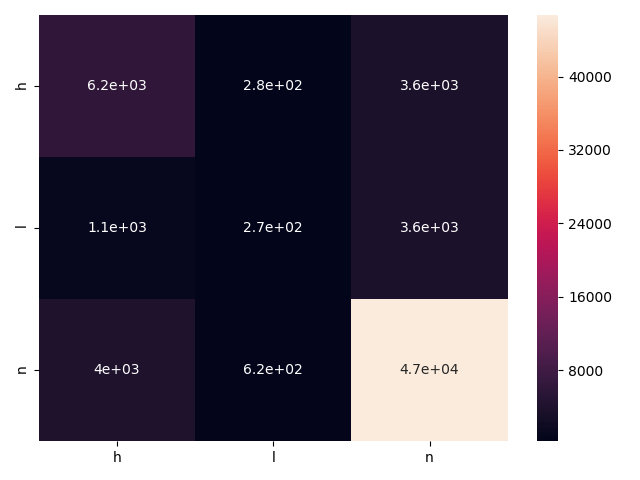
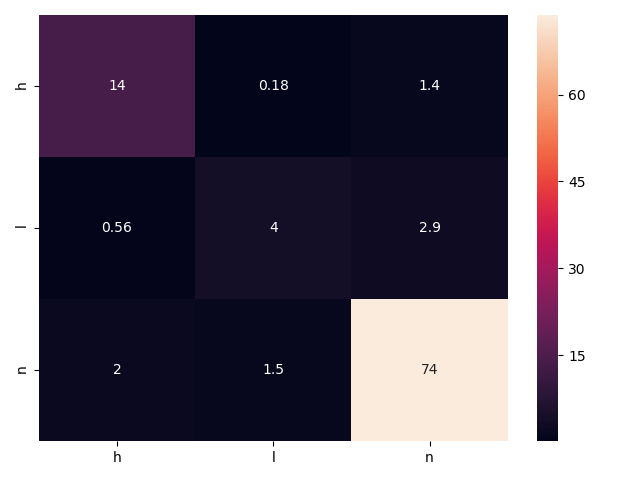
Final Commit

diff --git a/predict_nn.py b/predict_nn.py
@@ -1,0 +1,99 @@
+from sklearn.metrics import confusion_matrix
+from sklearn.model_selection import train_test_split
+from sklearn.preprocessing import LabelEncoder
+from sklearn.metrics import accuracy_score
+from sklearn.metrics import precision_score
+from sklearn.metrics import recall_score
+from sklearn.metrics import f1_score
+import keras.backend as K
+from keras.utils import get_custom_objects, to_categorical
+from keras.layers import Activation, Dense, BatchNormalization
+from keras.models import Sequential
+import joblib
+import matplotlib.pyplot as plt
+import seaborn as sns
+import pandas as pd
+import numpy as np
+
+class Swish(Activation):
+
+    def __init__(self, activation, **kwargs):
+        super(Swish, self).__init__(activation, **kwargs)
+        self.__name__ = 'swish'
+
+def swish(x):
+    return K.sigmoid(x) * x
+
+get_custom_objects().update({'swish': Swish(swish)})
+
+
+## Define the model architecture
+def build_model(input_shape):
+     model = Sequential()
+
+     model.add(Dense(32, input_shape=input_shape))
+     model.add(Activation('swish'))
+     model.add(BatchNormalization())
+
+     model.add(Dense(16))
+     model.add(Activation('swish'))
+     model.add(BatchNormalization())
+
+     model.add(Dense(8))
+     model.add(Activation('swish'))
+     model.add(BatchNormalization())
+
+     model.add(Dense(3))
+     model.add(Activation('softmax'))
+
+     return model
+le_s = LabelEncoder()
+le_i = LabelEncoder()
+le_c = LabelEncoder()
+le_acd = LabelEncoder()
+
+df = pd.read_csv('Dataset/Standard_CSV.csv')
+df['satellite'] = le_s.fit_transform(df['satellite'])
+df['instrument'] = le_i.fit_transform(df['instrument'])
+df['confidence'] = le_c.fit_transform(df['confidence'])
+df[['acq_date']] = df[['acq_date']].astype(str)
+df['acq_date'] = le_acd.fit_transform(df['acq_date'])
+df = df.iloc[:,1:]
+
+y = df.confidence.values
+x = df.drop('confidence', axis = 1).reset_index(drop = True)
+# y = to_categorical(y)
+
+x_train,x_val, y_train, y_val = train_test_split(x,y, test_size=0.3)
+y_valv = y_val
+y_val = to_categorical(y_val)
+y_train = to_categorical(y_train)
+
+## Build and compile the model
+model = build_model((x.shape[1],))
+model.load_weights('NN_weights/#106/weights-25-0.93.hdf5')
+predictions = model.predict(x_val, verbose = 1)
+predictions = np.argmax(predictions,axis = 1)
+print(predictions)
+print("Y_Val", y_val)
+
+# Calculate Accuracy and other metrics
+print("Classification Metrics:")
+accuracyv = accuracy_score(predictions, y_valv)
+print('Accuracy: %f' % accuracyv)
+precision = precision_score(predictions, y_valv, average = 'macro')
+print('Precision: %f' % precision)
+recall = recall_score(predictions, y_valv, average = 'macro')
+print('Recall: %f' % recall)
+f1 = f1_score(predictions, y_valv, average = 'macro')
+print('F1 score: %f' % f1)
+
+labels = ['h','l','n']
+cm = confusion_matrix(y_valv, predictions)
+sum = cm.sum()
+cm = cm * 100 / (sum)
+df_cm = pd.DataFrame(cm, index = labels,columns = labels)
+fig = plt.figure()
+sns.heatmap(df_cm, annot=True)
+fig.tight_layout()
+plt.savefig('nn.png')

diff --git a/svm.py b/svm.py
@@ -35,8 +35,8 @@ x_train,x_val, y_train, y_val = train_test_split(x,y, test_size=0.3)
 
 # Train the SVM
 print('SVM Training..')
-svm_model_linear = SVC(kernel = 'linear', C = 1, verbose = True).fit(x_train, y_train)
-svm_predictions = svm_model_linear.predict(x_val)
+svm_model_linear = SVC(kernel = 'linear', C = 1, verbose = True)
+# svm_predictions = svm_model_linear.predict(x_val)
 
 filename = 'SVM_model.sav'
 # print('Saving the model....')
@@ -62,6 +62,8 @@ print('F1 score: %f' % f1)
 # Plot Confusion Matrix
 labels = ['h','l','n']
 cm = confusion_matrix(y_val, svm_predictions)
+sum = cm.sum()
+cm = cm * 100 / (sum)
 df_cm = pd.DataFrame(cm, index = labels,columns = labels)
 fig = plt.figure()
 sns.heatmap(df_cm, annot=True)

diff --git a/nb.py b/nb.py
@@ -37,7 +37,7 @@ x_train,x_val, y_train, y_val = train_test_split(x,y, test_size=0.3)
 # Train the KNN Algorithm
 gnb = GaussianNB().fit(x_train, y_train)
 predictions = gnb.predict(x_val)
-
+print(len(x_val))
 # Calculate Accuracy and other metrics
 print("Classification Metrics:")
 accuracyv = accuracy_score(predictions, y_val)
@@ -51,8 +51,10 @@ print('F1 score: %f' % f1)
 
 labels = ['h','l','n']
 cm = confusion_matrix(y_val, predictions)
+sum = cm.sum()
+cm = cm * 100 / (sum)
 df_cm = pd.DataFrame(cm, index = labels,columns = labels)
 fig = plt.figure()
 sns.heatmap(df_cm, annot=True)
 fig.tight_layout()
-plt.savefig('cm_knn.png')
+plt.savefig('nb.png')

diff --git a/kmeans.py b/kmeans.py
@@ -48,6 +48,8 @@ print('F1 score: %f' % f1)
 # Plot Confusion Matrix
 labels = ['h','l','n']
 cm = confusion_matrix(y_val, predictions)
+sum = cm.sum()
+cm = cm * 100 / (sum)
 df_cm = pd.DataFrame(cm, index = labels,columns = labels)
 fig = plt.figure()
 sns.heatmap(df_cm, annot=True)

diff --git a/knn.py b/knn.py
@@ -51,6 +51,8 @@ print('F1 score: %f' % f1)
 
 labels = ['h','l','n']
 cm = confusion_matrix(y_val, predictions)
+sum = cm.sum()
+cm = cm * 100 / (sum)
 df_cm = pd.DataFrame(cm, index = labels,columns = labels)
 fig = plt.figure()
 sns.heatmap(df_cm, annot=True)
